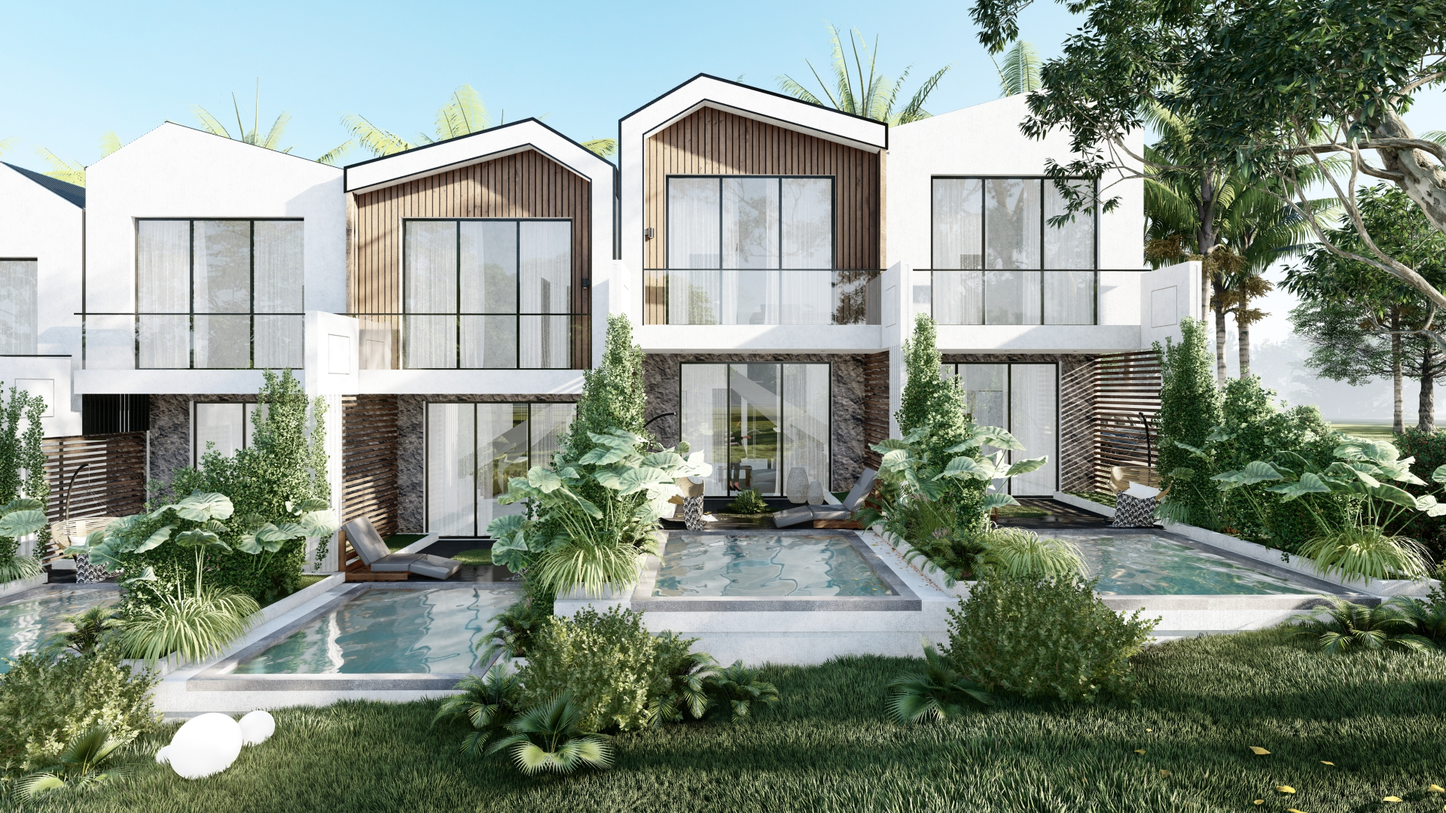
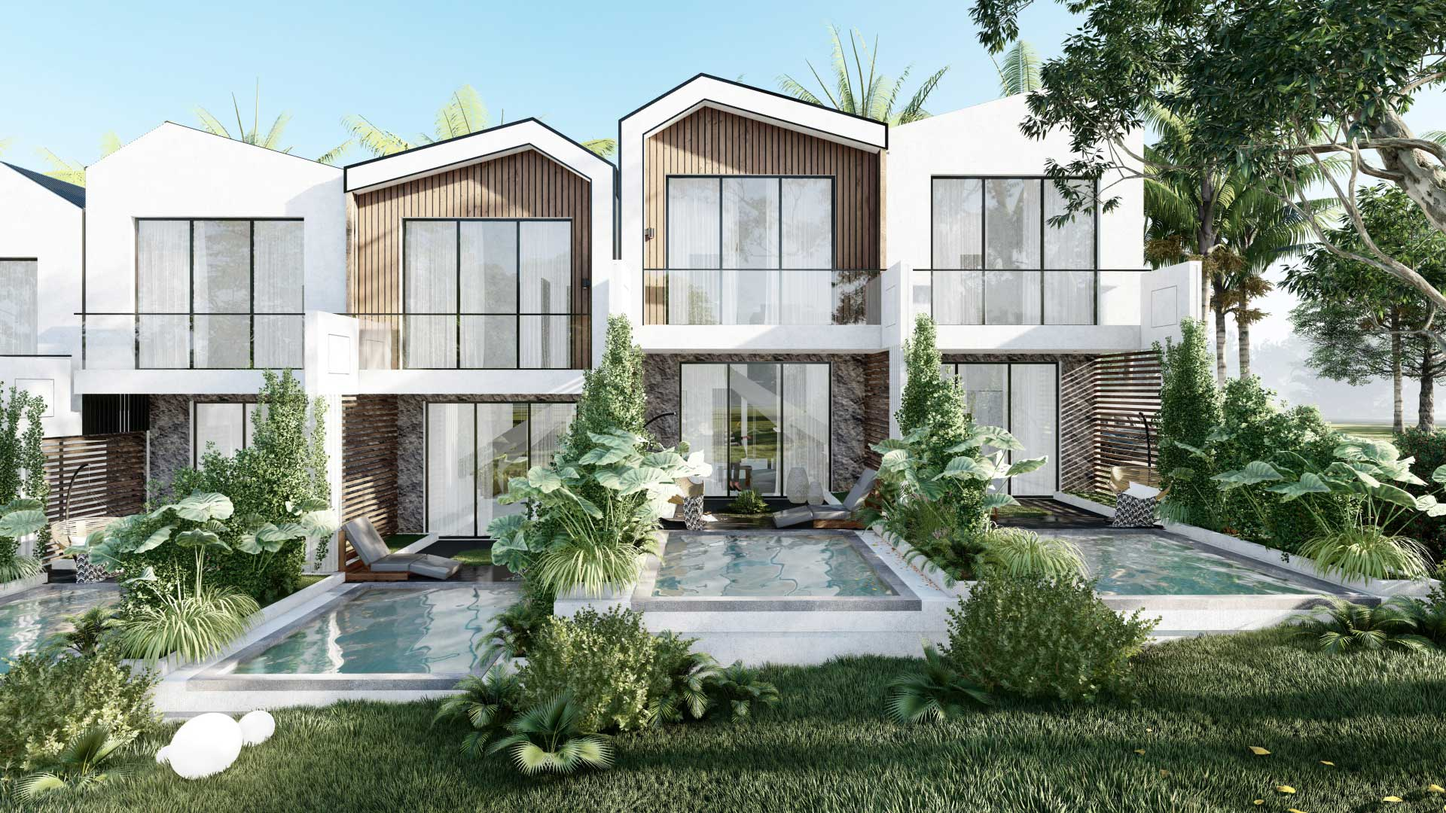
optimize images

diff --git a/app/Models/Property.php b/app/Models/Property.php
@@ -21,7 +21,7 @@ class Property extends Model
             'for' => 'For living / For re-sale / For long term rent',
             'completion_date' => 'Q3 2026',
             'payment_plan' => '-',
-            'image' => 'im_district_11.png',
+            'image' => 'im_district_11.jpg',
             'mode' => 'invest',
         ],
         'cielo-maya' => [
@@ -49,7 +49,7 @@ class Property extends Model
             'for' => 'For living / For re-sale / For long term rent',
             'completion_date' => '-',
             'payment_plan' => '-',
-            'image' => 'im_cipriani.png',
+            'image' => 'im_cipriani.jpg',
             'mode' => 'more',
         ],
         'waldorf-astoria' => [
@@ -91,7 +91,7 @@ class Property extends Model
             'for' => 'For living / For re-sale / For long term rent',
             'completion_date' => '2027',
             'payment_plan' => '-',
-            'image' => 'im_bentley_residence.png',
+            'image' => 'im_bentley_residence.jpg',
             'mode' => 'more',
         ],
         'nalu-luxury-residences' => [
@@ -147,7 +147,7 @@ class Property extends Model
             'for' => 'For living / For re-sale / For long term rent',
             'completion_date' => '2025',
             'offer' => 'EB 5 program — you can get green card for the investment in this project',
-            'image' => 'im_nexo_residences.png',
+            'image' => 'im_nexo_residences.jpg',
             'mode' => 'more',
         ],
         'west-eleventh' => [
@@ -161,7 +161,7 @@ class Property extends Model
             'for' => 'For living / For re-sale / For long term rent',
             'completion_date' => '2025',
             'payment_plan' => '-',
-            'image' => 'im_west_eleventh.png',
+            'image' => 'im_west_eleventh.jpg',
             'mode' => 'invest',
         ],
         'secret-waters' => [
@@ -217,7 +217,7 @@ class Property extends Model
             'for' => 'For living / For re-sale / For daily rent',
             'completion_date' => 'Q1 2026',
             'payment_plan' => '-',
-            'image' => 'im_upper_house.png',
+            'image' => 'im_upper_house.jpg',
             'mode' => 'invest',
         ],
         'ceiba-condo-paradise' => [
@@ -283,7 +283,7 @@ class Property extends Model
             'rent_out' => '12% ROI',
             'buy_out' => '100-130% after development',
             'payback' => '5-6 years',
-            'image' => 'im_batu_bolong.png',
+            'image' => 'im_batu_bolong.jpg',
         ],*/
         'umalas-premier' => [
             'location' => 'bali',
@@ -330,7 +330,7 @@ class Property extends Model
             'rent_out' => '12% ROI',
             'buy_out' => '100-130% after development',
             'payback' => '5-6 years',
-            'image' => 'im_sunny_apart_2.png',
+            'image' => 'im_sunny_apart_2.jpg',
             'mode' => 'invest',
         ],
         'batu-bolong-2' => [
@@ -360,7 +360,7 @@ class Property extends Model
             'for' => 'For living / For re-sale / For daily rent',
             'completion_date' => '2026',
             'payment_plan' => '-',
-            'image' => 'im_sea_heaven.png',
+            'image' => 'im_sea_heaven.jpg',
             'mode' => 'invest',
         ]
     ];

diff --git a/resources/views/pages/desktop/home.blade.php b/resources/views/pages/desktop/home.blade.php
@@ -99,7 +99,7 @@
             </div>
             <div class="col-4 p-0">
                 <div class="facility-block">
-                    <img src="/images/im_edge.jpg" class="facility-bg-image" />
+                    <img src="/images/projects/im_edge.jpg" class="facility-bg-image" />
                     <div class="facility-info">
                         <div class="bottom-block">
                             <p class="facility-title">The Edge <img src="/images/ic_arrow_right.svg" class="link-icon" /></p>
@@ -110,7 +110,7 @@
             </div>
             <div class="col-4 p-0">
                 <div class="facility-block">
-                    <img src="/images/im_upper_house.png" class="facility-bg-image" />
+                    <img src="/images/projects/im_upper_house.jpg" class="facility-bg-image" />
                     <div class="facility-info">
                         <div class="bottom-block">
                             <p class="facility-title">Upper House <img src="/images/ic_arrow_right.svg" class="link-icon" /></p>
@@ -125,7 +125,7 @@
         <div class="row m-0">
             <div class="col-4 p-0">
                 <div class="facility-block">
-                    <img src="/images/im_bentley_residence.png" class="facility-bg-image" />
+                    <img src="/images/projects/im_bentley_residence.jpg" class="facility-bg-image" />
                     <div class="facility-info">
                         <div class="bottom-block">
                             <p class="facility-title">Bentley<br>Residences <img src="/images/ic_arrow_right.svg" class="link-icon" /></p>
@@ -136,7 +136,7 @@
             </div>
             <div class="col-4 p-0">
                 <div class="facility-block">
-                    <img src="/images/im_umalas_premier.jpg" class="facility-bg-image" />
+                    <img src="/images/projects/im_umalas_premier.jpg" class="facility-bg-image" />
                     <div class="facility-info">
                         <div class="bottom-block">
                             <p class="facility-title">Umalas Premier <img src="/images/ic_arrow_right.svg" class="link-icon" /></p>
@@ -147,7 +147,7 @@
             </div>
             <div class="col-4 p-0">
                 <div class="facility-block">
-                    <img src="/images/im_batu_bolong.png" class="facility-bg-image" />
+                    <img src="/images/projects/im_batu_bolong_2.jpg" class="facility-bg-image" />
                     <div class="facility-info">
                         <div class="bottom-block">
                             <p class="facility-title">Batu Bolong <img src="/images/ic_arrow_right.svg" class="link-icon" /></p>
